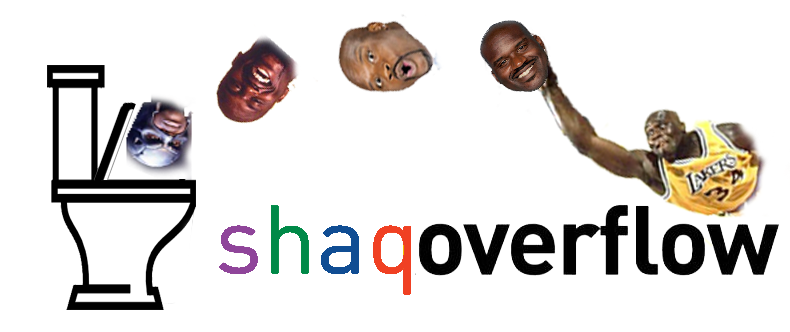
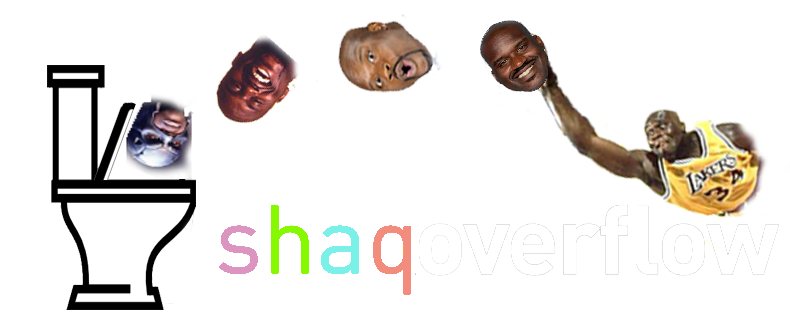
made a separate background for the primary content

Changed region(s): [[0.2734, 0.6024, 1.0, 0.8735]]

diff --git a/app/assets/stylesheets/application.css b/app/assets/stylesheets/application.css
@@ -70,16 +70,20 @@
 
 body{
     font-family: 'Merriweather Sans', sans-serif;
-    background: url(/imgs/court.jpg) no-repeat top center fixed;
+    background-color: yellow;
+    background: url(/imgs/bball-background.jpg) no-repeat top center fixed;
     background-size: cover;
 }
 
 /* Content */
 
 .content {
+    border-radius: 25px;
     padding: 50px;
     border: 1px solid black;
     box-sizing: border-box;
+    background: url(/imgs/court.jpg) no-repeat top center fixed;
+    background-size: cover;
 }
 
 /* Questions */
@@ -143,6 +147,10 @@ video.fillWidth {
     line-height: 50px;
     font-size: 1.4em;
   }
+
+  #video-container {
+  position: absolute;
+}
 
   /* Option 1 - Display Inline */
   .nav li {
